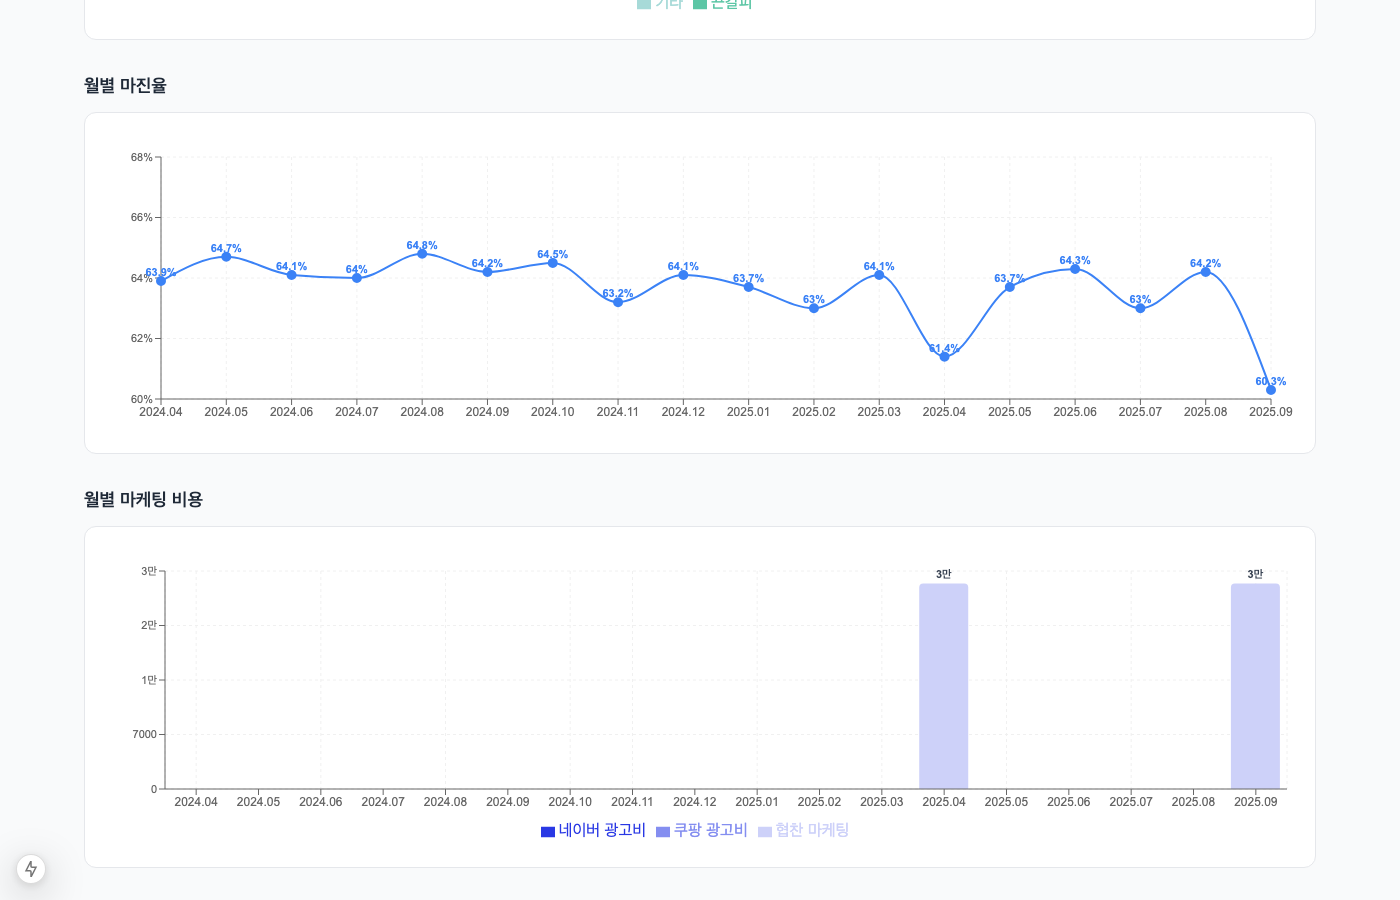
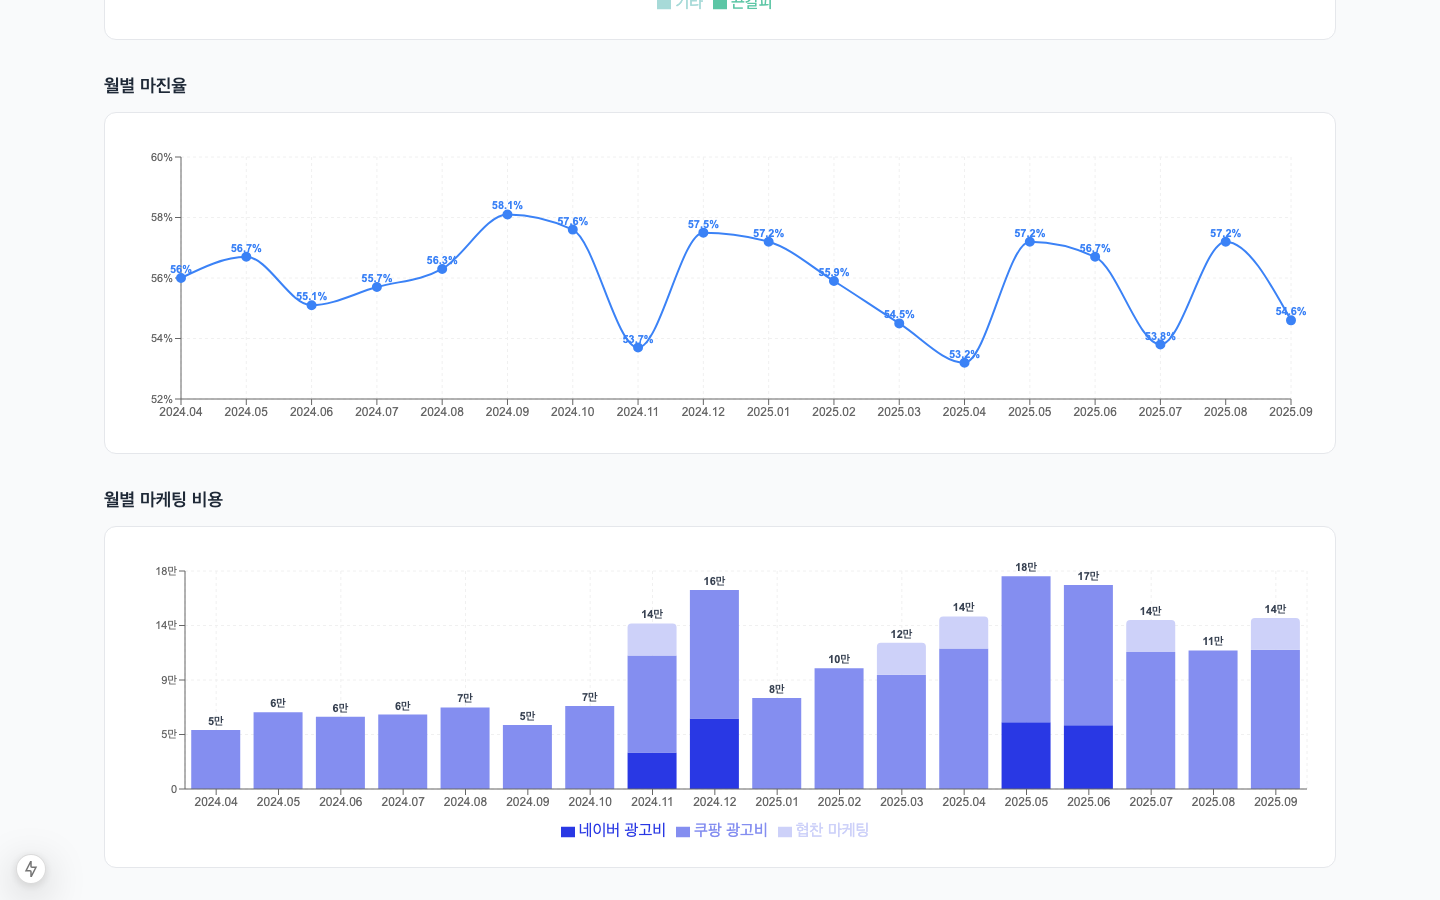
docs: README 수정 및 마케팅 비용 차트 스크린샷 재촬영
- '다채널' → '멀티채널'로 표현 개선
- Vitest 선택 배경 절 제거 (상세도 불균형)
- 데이터 저장 절: 굵게 강조 제거 후 자연스러운 문장으로 재작성
- Google Drive 심볼릭 링크 설명 추가
- 스크레이핑 오류 UX: 재시도 또는 수기 보정 가능 명시
- 마케팅 비용 차트: 네이버 광고비 누락 버그 수정 후 3종 데이터 모두 표시된 스크린샷으로 교체
- gen-mock-data.ts: rateJitter 함수 추가, 네이버 광고비·협찬 달 확대

diff --git a/scripts/gen-mock-data.ts b/scripts/gen-mock-data.ts
@@ -1,0 +1,297 @@
+/**
+ * 목업 데이터 생성 스크립트
+ * 2024-04 ~ 2025-12 (21개월) 가상 판매 데이터 생성
+ */
+import fs from "fs";
+import path from "path";
+
+const DATA_DIR = path.join(process.cwd(), "data", "reports");
+
+// ── 시즌별 상품 정의 ─────────────────────────────────────────────
+const PRODUCTS = {
+  spring:  ["봄 벚꽃 끈갈피", "딸기 꽃 끈갈피", "민들레 끈갈피"],
+  summer:  ["여름 수박 끈갈피", "빙수 끈갈피", "파랑 물결 끈갈피"],
+  autumn:  ["가을 단풍 끈갈피", "귀여운 고양이 끈갈피", "열매 넝쿨 끈갈피"],
+  winter:  ["겨울 눈꽃 끈갈피", "작은 별 끈갈피", "붉은 열매 끈갈피"],
+  perennial: ["봄 벚꽃 끈갈피", "귀여운 고양이 끈갈피", "딸기 꽃 끈갈피"],
+  other:   ["독서 인덱스 플래그"],
+};
+
+function getSeason(month: number): "spring" | "summer" | "autumn" | "winter" {
+  if (month >= 3 && month <= 5)  return "spring";
+  if (month >= 6 && month <= 8)  return "summer";
+  if (month >= 9 && month <= 11) return "autumn";
+  return "winter";
+}
+
+// 시즌 주력 상품 + 상시 상품 조합
+function getMonthProducts(month: number): { handmade: string[]; other: string[] } {
+  const season = getSeason(month);
+  const main = PRODUCTS[season];
+  // 상시 상품은 주력이 아닌 것 중 1~2개
+  const extra = PRODUCTS.perennial.filter(p => !main.includes(p)).slice(0, 2);
+  return { handmade: [...main, ...extra], other: PRODUCTS.other };
+}
+
+// 시즌 부스트 (계절 성수기)
+function seasonBoost(month: number): number {
+  // 12월(크리스마스), 5월(어버이날/스승의날), 2월(발렌타인) 피크
+  const boosts: Record<number, number> = { 12: 1.5, 5: 1.25, 2: 1.15, 10: 1.1, 11: 1.2 };
+  return boosts[month] ?? 1.0;
+}
+
+// 성장 곡선: 초기 소규모 → 안정화
+function growthFactor(year: number, month: number): number {
+  const monthsFromStart = (year - 2024) * 12 + (month - 4); // 2024-04 기준
+  // 로지스틱 성장 곡선 (0.3 → 1.0)
+  const growth = 0.3 + 0.7 * (1 / (1 + Math.exp(-0.3 * (monthsFromStart - 8))));
+  return growth;
+}
+
+// 결정론적 "랜덤" (seed 기반, 실행마다 동일 결과)
+function pseudoRandom(seed: number): number {
+  const x = Math.sin(seed) * 10000;
+  return x - Math.floor(x); // 0~1
+}
+
+function jitter(base: number, seed: number, range = 0.12): number {
+  return Math.round(base * (1 + (pseudoRandom(seed) * 2 - 1) * range));
+}
+
+// 비율(rate)에 변동을 줄 때 사용 — jitter()는 내부에서 round를 해서 소수 비율에 사용 불가
+function rateJitter(base: number, seed: number, range = 0.2): number {
+  return base * (1 + (pseudoRandom(seed) * 2 - 1) * range);
+}
+
+// ── 월별 레포트 생성 ──────────────────────────────────────────────
+function generateReport(year: number, month: number) {
+  const gf = growthFactor(year, month);
+  const sb = seasonBoost(month);
+  const seed = year * 100 + month;
+
+  const { handmade: hpList, other: opList } = getMonthProducts(month);
+
+  // ── 네이버 ─────────────────────────────────────────────────────
+  const naverBaseRevenue = jitter(680000 * gf * sb, seed + 1);
+  const naverRevenue = Math.round(naverBaseRevenue / 1000) * 1000;
+
+  const naverBaseQty = Math.round(naverRevenue / 17500);
+  const naverOtherQty = Math.min(Math.round(naverBaseQty * 0.12), 6);
+  const naverHandmadeQty = naverBaseQty - naverOtherQty;
+
+  // 네이버 상품 분배 (주력 1위에 40%, 2위 30%, 나머지 배분)
+  const naverHProd = hpList.map((name, i) => {
+    const ratio = i === 0 ? 0.4 : i === 1 ? 0.3 : i === 2 ? 0.18 : 0.12;
+    return { productName: name, category: "handmade" as const, platform: "naver" as const,
+      quantity: Math.max(1, Math.round(naverHandmadeQty * ratio)) };
+  });
+  const naverOProd = opList.map(name => ({
+    productName: name, category: "other" as const, platform: "naver" as const, quantity: naverOtherQty,
+  }));
+
+  const naverShippingCollected = Math.round(naverRevenue * 0.068);
+  const naverPayerCount = Math.round(naverBaseQty * 0.52);
+  const naverCommission = Math.round(naverRevenue * 0.05);
+  const naverRegularCount = Math.round(naverPayerCount * 0.76);
+  const naverFreeCount = naverPayerCount - naverRegularCount;
+  const naverLogistics = naverFreeCount * 3300 + naverRegularCount * 300;
+  const naverSettlement = naverRevenue + naverShippingCollected - naverCommission - naverLogistics;
+  const naverMaterialCost = Math.round((naverRevenue - naverShippingCollected) * 0.148);
+  const naverProfit = naverRevenue - naverCommission - naverLogistics;
+  const naverNetProfit = naverProfit - naverMaterialCost;
+
+  // ── 쿠팡 ─────────────────────────────────────────────────────
+  const coupangBaseRevenue = jitter(920000 * gf * sb, seed + 2);
+  const coupangRevenue = Math.round(coupangBaseRevenue / 1000) * 1000;
+  const coupangQty = Math.round(coupangRevenue / 18000);
+
+  const coupangCProd = hpList.map((name, i) => {
+    // 쿠팡은 2위 상품이 더 강한 경우도 있음
+    const ratios = [0.38, 0.32, 0.18, 0.08, 0.04];
+    return { productName: name, category: "handmade" as const, platform: "coupang" as const,
+      quantity: Math.max(1, Math.round(coupangQty * (ratios[i] ?? 0.03))) };
+  });
+
+  const coupangCommission = Math.round(coupangRevenue * 0.119);
+  const coupangLogistics = Math.round(coupangRevenue * 0.192);
+  const coupangAdFee = Math.round(coupangRevenue * rateJitter(0.13, seed + 3, 0.2));
+  const coupangMaterialCost = Math.round(coupangRevenue * 0.15);
+  const coupangProfit = coupangRevenue - coupangCommission - coupangLogistics - coupangAdFee;
+  const coupangNetProfit = coupangProfit - coupangMaterialCost;
+
+  // ── 오프라인 (격월 또는 월 단위, 소규모) ───────────────────────
+  const hasOffline = gf > 0.5 && pseudoRandom(seed + 10) > 0.3;
+  const offlineRevenue = hasOffline ? Math.round(jitter(105000 * gf, seed + 4) / 1000) * 1000 : 0;
+  const offlineQty = hasOffline ? Math.max(3, Math.round(offlineRevenue / 17000)) : 0;
+  const offlineCommission = Math.round(offlineRevenue * 0.30);
+  const offlineLogistics = hasOffline ? 3300 : 0;
+  const offlineMaterialCost = Math.round(offlineRevenue * 0.175);
+  const offlineProfit = offlineRevenue - offlineCommission - offlineLogistics;
+  const offlineNetProfit = offlineProfit - offlineMaterialCost;
+
+  const offlineProd = hasOffline ? hpList.slice(0, 2).map((name, i) => ({
+    productName: name, category: "handmade" as const, platform: "offline" as const,
+    quantity: i === 0 ? Math.round(offlineQty * 0.6) : Math.round(offlineQty * 0.4),
+  })) : [];
+
+  // ── 네이버 광고비 (격월 집행, 성수기에 집중) ────────────────────
+  const hasNaverAd = gf > 0.55 && [5, 6, 10, 11, 12].includes(month);
+  const naverAdFee = hasNaverAd ? Math.round(naverRevenue * rateJitter(0.07, seed + 20, 0.2)) : 0;
+
+  // ── 협찬 (성장기 이후, 계절 성수기 전달에 집중) ─────────────────
+  const hasSponsorship = gf > 0.55 && [3, 7, 9, 11, 4].includes(month);
+  const sponsorProductName = hpList[0];
+  const sponsorQty = hasSponsorship ? 5 : 0;
+  const marketingCost = sponsorQty * 5280;
+
+  // ── 집계 ─────────────────────────────────────────────────────
+  const totalRevenue = naverRevenue + coupangRevenue + offlineRevenue;
+  const totalCommissionFee = naverCommission + coupangCommission + offlineCommission;
+  const totalLogisticsFee = naverLogistics + coupangLogistics + offlineLogistics;
+  const totalAdFee = naverAdFee + coupangAdFee;
+  const totalProfit = naverProfit + coupangProfit + offlineProfit;
+  const totalMaterialCost = naverMaterialCost + coupangMaterialCost + offlineMaterialCost;
+  const totalNetProfit = totalProfit - totalMaterialCost - marketingCost;
+  const totalQty = naverBaseQty + coupangQty + offlineQty;
+  const handmadeQty = naverHandmadeQty + coupangQty + (hasOffline ? offlineQty : 0);
+  const otherQty = naverOtherQty;
+
+  // ── 랭킹 계산 ────────────────────────────────────────────────
+  const productTotals: Record<string, { naver: number; coupang: number; offline: number; category: string }> = {};
+
+  [...naverHProd, ...naverOProd].forEach(p => {
+    if (!productTotals[p.productName]) productTotals[p.productName] = { naver: 0, coupang: 0, offline: 0, category: p.category };
+    productTotals[p.productName].naver += p.quantity;
+  });
+  coupangCProd.forEach(p => {
+    if (!productTotals[p.productName]) productTotals[p.productName] = { naver: 0, coupang: 0, offline: 0, category: p.category };
+    productTotals[p.productName].coupang += p.quantity;
+  });
+  offlineProd.forEach(p => {
+    if (!productTotals[p.productName]) productTotals[p.productName] = { naver: 0, coupang: 0, offline: 0, category: p.category };
+    productTotals[p.productName].offline += p.quantity;
+  });
+
+  const allRanking = Object.entries(productTotals)
+    .filter(([, v]) => v.category === "handmade")
+    .map(([name, v]) => ({ productName: name, category: "handmade" as const, naver: v.naver, coupang: v.coupang, offline: v.offline, total: v.naver + v.coupang + v.offline }))
+    .sort((a, b) => b.total - a.total)
+    .map((r, i) => ({ rank: i + 1, ...r }));
+
+  const sponsorExcluded = allRanking.map(r => ({
+    ...r, total: r.productName === sponsorProductName ? r.total - sponsorQty : r.total
+  })).sort((a, b) => b.total - a.total).map((r, i) => ({ ...r, rank: i + 1 }));
+
+  const productMatrix = Object.entries(productTotals).map(([name, v]) => ({
+    productName: name, category: v.category as "handmade" | "other",
+    naver: v.naver, coupang: v.coupang, offline: v.offline, total: v.naver + v.coupang + v.offline
+  })).sort((a, b) => b.total - a.total);
+
+  const naverRanking = [...naverHProd].sort((a, b) => b.quantity - a.quantity)
+    .slice(0, 3).map((p, i) => ({
+      rank: i + 1, productName: p.productName, category: p.category,
+      total: p.quantity, naver: p.quantity, coupang: 0, offline: 0
+    }));
+
+  const coupangRanking = [...coupangCProd].sort((a, b) => b.quantity - a.quantity)
+    .slice(0, 3).map((p, i) => ({
+      rank: i + 1, productName: p.productName, category: p.category,
+      total: p.quantity, naver: 0, coupang: p.quantity, offline: 0
+    }));
+
+  const offlineRanking = [...offlineProd].sort((a, b) => b.quantity - a.quantity)
+    .slice(0, 3).map((p, i) => ({
+      rank: i + 1, productName: p.productName, category: p.category,
+      total: p.quantity, naver: 0, coupang: 0, offline: p.quantity
+    }));
+
+  const collectedAt = new Date(year, month, 1, 9, 0, 0).toISOString();
+
+  return {
+    period: { year, month },
+    dataRange: { start: `${year}-${String(month).padStart(2, "0")}-01`, end: `${year}-${String(month).padStart(2, "0")}-${new Date(year, month, 0).getDate()}` },
+    naver: {
+      revenue: naverRevenue,
+      shippingCollected: naverShippingCollected,
+      payerCount: naverPayerCount,
+      totalQuantity: naverBaseQty,
+      handmadeQuantity: naverHandmadeQty,
+      otherQuantity: naverOtherQty,
+      fees: { commissionFee: naverCommission, logisticsFee: naverLogistics, adFee: naverAdFee, settlementAmount: naverSettlement },
+      shippingStats: { regularCount: naverRegularCount, freeCount: naverFreeCount, sellerCost: naverLogistics },
+      profit: { profit: naverProfit, materialCost: naverMaterialCost, netProfit: naverNetProfit },
+      products: [...naverHProd, ...naverOProd],
+    },
+    coupang: {
+      revenue: coupangRevenue,
+      totalQuantity: coupangQty,
+      handmadeQuantity: coupangQty,
+      otherQuantity: 0,
+      fees: { commissionFee: coupangCommission, logisticsFee: coupangLogistics, adFee: coupangAdFee, settlementAmount: 0 },
+      profit: { profit: coupangProfit, materialCost: coupangMaterialCost, netProfit: coupangNetProfit },
+      products: coupangCProd,
+    },
+    offline: [{
+      venueId: "lighthouse",
+      venueName: "등대서점",
+      revenue: offlineRevenue,
+      totalQuantity: offlineQty,
+      handmadeQuantity: offlineQty,
+      otherQuantity: 0,
+      fees: { commissionFee: offlineCommission, logisticsFee: offlineLogistics, adFee: 0, settlementAmount: 0 },
+      profit: { profit: offlineProfit, materialCost: offlineMaterialCost, netProfit: offlineNetProfit },
+      products: offlineProd,
+    }],
+    sponsorship: {
+      items: hasSponsorship ? [{ productName: sponsorProductName, category: "handmade", quantity: sponsorQty }] : [],
+      marketingCost,
+      totalQuantity: sponsorQty,
+      handmadeQuantity: sponsorQty,
+    },
+    summary: {
+      totalRevenue,
+      totalCommissionFee,
+      totalLogisticsFee,
+      totalAdFee,
+      totalProfit,
+      totalMaterialCost,
+      marketingCost,
+      totalNetProfit,
+      totalQuantity: totalQty,
+      handmadeQuantity: handmadeQty,
+      otherQuantity: otherQty,
+    },
+    naverRanking,
+    coupangRanking,
+    offlineRanking,
+    overallRanking: allRanking.slice(0, 5),
+    sponsorExcludedRanking: sponsorExcluded.slice(0, 5),
+    productMatrix,
+    insights: [],
+    warnings: [],
+    collectedAt,
+    lastModifiedAt: collectedAt,
+  };
+}
+
+// ── 생성 대상 월 목록 (2024-04 ~ 2025-09) ────────────────────────
+const months: [number, number][] = [];
+for (let m = 4; m <= 12; m++) months.push([2024, m]);
+for (let m = 1; m <= 9;  m++) months.push([2025, m]);
+
+fs.mkdirSync(DATA_DIR, { recursive: true });
+
+let count = 0;
+for (const [year, month] of months) {
+  const filePath = path.join(DATA_DIR, `${year}-${String(month).padStart(2, "0")}.json`);
+  // 이미 존재하는 파일(Oct~Dec 2025)은 덮어쓰지 않음
+  if (fs.existsSync(filePath)) {
+    console.log(`⏭  Skip ${year}-${month} (already exists)`);
+    continue;
+  }
+  const report = generateReport(year, month);
+  fs.writeFileSync(filePath, JSON.stringify(report, null, 2));
+  console.log(`✅ Generated ${year}-${String(month).padStart(2, "0")}  revenue: ${report.summary.totalRevenue.toLocaleString()}원`);
+  count++;
+}
+console.log(`\n🎉 Done! Generated ${count} mock reports.`);
